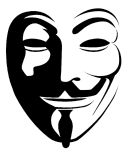
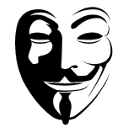
add thumbnailator

diff --git a/src/main/java/com/gmail/yevgen/spring/ui/SignUpView.java b/src/main/java/com/gmail/yevgen/spring/ui/SignUpView.java
@@ -1,10 +1,16 @@
 package com.gmail.yevgen.spring.ui;
 
+import java.awt.image.BufferedImage;
+import java.io.ByteArrayInputStream;
+import java.io.ByteArrayOutputStream;
+import java.io.IOException;
 import java.time.LocalDate;
 import java.util.AbstractMap.SimpleEntry;
 import java.util.Optional;
 import java.util.stream.Collectors;
 import java.util.stream.Stream;
+
+import javax.imageio.ImageIO;
 
 import org.springframework.beans.factory.annotation.Autowired;
 import org.springframework.security.crypto.password.PasswordEncoder;
@@ -40,6 +46,8 @@ import com.vaadin.flow.router.QueryParameters;
 import com.vaadin.flow.router.Route;
 import com.vaadin.flow.server.StreamResource;
 
+import net.coobird.thumbnailator.Thumbnails;
+
 @Route("signup")
 @PageTitle("Days calculator - new user")
 public class SignUpView extends VerticalLayout {
@@ -66,18 +74,27 @@ public class SignUpView extends VerticalLayout {
         MemoryBuffer buffer = new MemoryBuffer();
         Upload upload = new Upload(buffer);
         Span dropLabel = new Span("drag photo here");
+
         upload.setUploadButton(new Button("Upload"));
         upload.setDropLabel(dropLabel);
         upload.setAcceptedFileTypes("image/jpeg", "image/png", "image/gif");
         upload.addSucceededListener(event -> {
-            StreamResource sr = new StreamResource("", () -> {
-                return buffer.getInputStream();
-            });
-            if (sr != null) {
-                sr.setContentType("image/png");
-                photo.setSrc(sr);
-                photo.setWidth("128px");
-                photo.setHeight("128px");
+            try {
+                BufferedImage inputImage = Thumbnails.of(buffer.getInputStream()).size(128, 128).asBufferedImage();
+                ByteArrayOutputStream pngContent = new ByteArrayOutputStream();
+                ImageIO.write(inputImage, "png", pngContent);
+                person.setProfilePicture(pngContent.toByteArray());
+
+                StreamResource sr = new StreamResource("", () -> {
+                    return new ByteArrayInputStream(pngContent.toByteArray());
+                });
+                if (sr != null) {
+                    sr.setContentType("image/png");
+                    photo.setSrc(sr);
+                }
+
+            } catch (IOException e) {
+                e.printStackTrace();
             }
         });
 

diff --git a/src/main/java/com/gmail/yevgen/spring/domain/Person.java b/src/main/java/com/gmail/yevgen/spring/domain/Person.java
@@ -10,6 +10,7 @@ import javax.persistence.GenerationType;
 import javax.persistence.Id;
 import javax.persistence.Lob;
 
+import org.hibernate.annotations.Type;
 import org.springframework.stereotype.Service;
 
 import lombok.Getter;
@@ -17,6 +18,7 @@ import lombok.NoArgsConstructor;
 import lombok.NonNull;
 import lombok.RequiredArgsConstructor;
 import lombok.Setter;
+import lombok.ToString;
 
 @NoArgsConstructor
 @RequiredArgsConstructor
@@ -24,6 +26,7 @@ import lombok.Setter;
 @Setter
 @Service
 @Entity
+@ToString
 public class Person {
     @Id
     @GeneratedValue(strategy = GenerationType.AUTO)
@@ -33,6 +36,7 @@ public class Person {
     private @NonNull String password;
     private @NonNull LocalDate birthDate;
     @Lob
+    @Type(type = "org.hibernate.type.ImageType")
     @Basic(fetch = FetchType.LAZY)
     private byte[] profilePicture;
 }
